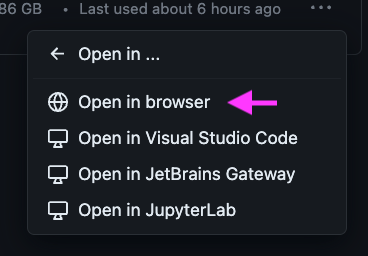
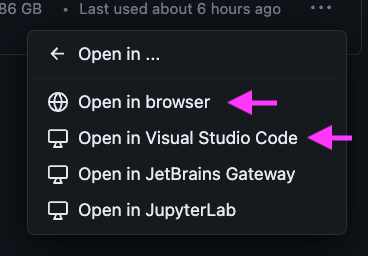
incorporate feedback from user testing

Changed region(s): [[0.837, 0.4688, 0.9565, 0.5938]]

diff --git a/README.md b/README.md
@@ -9,29 +9,14 @@ We will first create a smartPy environment with Codespaces. Codespaces is a Micr
 For most readers, the setup will end here and they can skip to the smartPy tutorial.
 More advanced users may wish to continue through the advanced section of setup guide, which provides instructions for how to create a smartPy container and volume on your local machine.
 
-## Table of Contents
+### Permissions and pop-ups
 
-- [SmartPy Environment Setup Guide](#smartpy-environment-setup-guide)
-  * [Introduction](#introduction)
-  * [Table of Contents](#table-of-contents)
-  * [How to create a codespace](#how-to-create-a-codespace)
-  * [Orientation](#orientation)
-    + [The Command Palette](#the-command-palette)
-    + [Exiting your codespace](#exiting-your-codespace)
-    + [Reconnecting to your codespace](#reconnecting-to-your-codespace)
-    + [The .devcontainer folder](#the-devcontainer-folder)
-    + [How to use Codespaces with your local version of VS Code](#how-to-use-codespaces-with-your-local-version-of-vs-code)
-    + [How to connect to your own fork of the tutorial repository](#how-to-connect-to-your-own-fork-of-the-tutorial-repository)
-    + [Next steps](#next-steps)
-  * [How to set up a local devcontainer (advanced)](#how-to-set-up-a-local-devcontainer--advanced-)
-    + [Prerequisites](#prerequisites)
-    + [Instructions](#instructions)
-    + [Troubleshooting](#troubleshooting)
+Throughout this guide you may encounter pop-ups or detours asking you to grant permission for particular activities such as opening VS Code from the browser, installing extentions and authorising github access. These haven't been detailed in the guide as they differ between operating systems and your security settings. However, these are expected and you will have to provide appropriate access to complete the setup.
 
 ## How to create a codespace
 
 1. Create an account at github.com
-2. Navigate to https://github.com/grum-tez/smartPyDC
+2. Navigate to https://github.com/grum-tez/smartPyDC (this very page)
 3. Click _Use this template_, then click _Open in a codespace_.
 
 ![Partial screengrab of Github website with 'Use this Template' leading to a dropdown with 'Open in codespace'](images/useThisTemplate.png)
@@ -51,60 +36,25 @@ The Command Palette is a searchable menu that provides access to many commands i
 You will use the Command Palette often enough that it is well worth learning the keyboard shortcut!
 
 **Command Palette keyboard shortcuts:**
-Windows/Linux: Ctrl + Shift + P
-macOS: ⇧⌘P (Shift + Command + P)
+
+| Operating System | Shortcut                  |
+|------------------|---------------------------|
+| Windows/Linux    | Ctrl + Shift + P          |
+| macOS            | Shift + Command + P (⇧⌘P) |
+
 
 Try it out - search for "View: Toggle Terminal" in the command palette. Notice that the keyboard shortcut for *Toggle Terminal* appears alongside the command.
 
 ![A screengrab of the Command Palette Search Bar](images/commandPaletteSearch.png)
 
 **Toggle Terminal keyboard shortcuts:**
-Windows/Linux: Ctrl + \`
-macOS: ^\` (control + backtick)
+
+| Operating System | Shortcut                  |
+|------------------|---------------------------|
+| Windows/Linux    | Ctrl + \                  |
+| macOS            | Control + Backtick (^\`)  |
 
 This is another shortcut worth remembering!
-
-### Exiting your codespace
-
-When you are finished working in your codespace, you should close your connection before you exit VS Code. This will prevent wastage of your 60 hour quota of weekly free codespace time.
-
-**To close your connection:**
-
-1. If you are currently connected to a codespace, you will see this in the bottom left corner of your VS Code window:
-
-![A screengrab of the VS Code interface highlighting the 'Codespaces connected' tab](/images/CodespaceConnected.png)
-
-2. Click on the word 'codespaces'. This will open the command palette. Select "close remote connection"
-
-![A screengrab of the VS Code command palette highlighting the 'close remote connection' option](/images/closeRemoteConnection.png)
-
-3. If you now see only this at the bottom left of your VS Code window ... 
-
-![A screengrab of the VS Code interface highlighting that there is no current remote connection](/images/notConnected.png)
-
-... that means you have successfully disconnected from the remote.
-
-With default settings, your codespace will automatically stop after 30 minutes of inactivity. So if you forget to disconnect in the context of this tutorial, it won't be a big deal. However it is good to get into a habit of closing your codespace connection when you aren't using it.
-
-### Reconnecting to your codespace
-
-If you close you codespace part way through the tutorial and you want to get back to your work in progress, go to [https://github.com/codespaces](https://github.com/codespaces). After you sign in with your github account, will see your codespaces listed on this page. If you are new to codespaces, there will only be one item in the list.
-
-**To reconnect:**
-
-1. Click on the meatballs menu[*](https://twitter.com/MichaelBabich/status/608618153757802497) at the right hand side of your corresponding codespace.
-
-![A screengrab of the github codespaces web interface, showing a list of one item with basic information about a provisioned codespace](/images/codespace_list.png)
-
-2. Click 'Open in ...'
-
-![A screengrab of the github codespaces web interface, showing a menu with the option 'Open in ...' highlighted](/images/codespace_list_menu1.png)
-
-3. Click 'Open in browser'
-
-![A screengrab of the github codespaces web interface, showing a menu with the option 'Open in browser' highlighted](/images/codespace_list_menu2.png)
-
-This will return you to your codespace and work in progress.
 
 ### The .devcontainer folder
 
@@ -116,15 +66,67 @@ You will notice your workspace contains a single folder called ".devcontainer".
 
 ### How to use Codespaces with your local version of VS Code
 
-If you are familiar with VS Code and wish to use your natively-installed VS Code instead of an in-browser instance, open the command palette and select "Codespaces: Open in VS Code Desktop". 
+If you are familiar with VS Code and wish to use your natively-installed VS Code instead of an in-browser instance, open the command palette and select "Codespaces: Open in VS Code Desktop".
 
-![A screengrab of the command palette with an arrow indicating the "Open in VS Code Desktop option"](/images/openVS CodeDesktop.png)
+![A screengrab of the command palette with an arrow indicating the "Open in VS Code Desktop option"](/images/openVSCodeDesktop.png)
 
-On the other hand, if you are happy to work in the browser or don't want to install VS Code, you can safely skip this.
+You may be prompted to install the Codespaces extension. If so, accept.
+
+If you are happy to work in the browser or don't want to install VS Code, you can skip this section without disadvantage.
+
+### How to stop your Codespace
+
+When you are finished working in your codespace, you should stop your Codespace before you exit VS Code. This will prevent wastage of your 60 hour quota of weekly free Codespace time.
+
+1. If you are currently connected to a Codespace, you will see this in the bottom left corner of your VS Code window:
+
+![A screengrab of the VS Code interface highlighting the 'Codespaces connected' tab](/images/CodespaceConnected.png)
+
+2. Click on the word 'Codespaces'. This will open the command palette. Select "Stop Current Codespace".
+
+![A screengrab of the VS Code command palette highlighting the 'stop current codespace' option](/images/stopCodespace.png)
+
+3. Confirm you are disconnected
+
+_Codespace in local VS Code_:
+
+ If you now see only this at the bottom left of your VS Code window ... 
+
+![A screengrab of the VS Code interface highlighting that there is no current remote connection](/images/notConnected.png)
+
+... that means you have successfully stopped the remote, and have been disconnected
+
+_Codespace in Browser_:
+
+ You should see something like this:
+
+![A screengrab of a github webpage with the message "Codespace is stopped" and a button: "Restart codespace"](/images/codespaceStopped.png)
+
+With default settings, your codespace will automatically stop after 30 minutes of inactivity. So if you forget to stop in the context of the smartPy tutorial, it won't be a big deal. However, it is good to get into a habit of stopping a codespace when you aren't using it.
+
+### How to reconnect to your Codespace
+
+If you close your Codespace part way through the tutorial and you want to get back to your work in progress, go to [https://github.com/codespaces](https://github.com/codespaces). After you sign in with your github account, will see your codespaces listed on this page. If you are new to codespaces, there will only be one item in the list.
+
+**To reconnect:**
+
+1. Click on the meatballs[*](https://twitter.com/MichaelBabich/status/608618153757802497) menu (the three dots) at the right hand side of your corresponding codespace.
+
+![A screengrab of the github codespaces web interface, showing a list of one item with basic information about a provisioned codespace](/images/codespace_list.png)
+
+2. Click 'Open in ...'
+
+![A screengrab of the github codespaces web interface, showing a menu with the option 'Open in ...' highlighted](/images/codespace_list_menu1.png)
+
+3. Click 'Open in browser' or 'Open in VS Code' as you prefer
+
+![A screengrab of the github codespaces web interface, showing a menu with the option 'Open in browser' highlighted](/images/codespace_list_menu2.png)
+
+This will return you to your codespace and work in progress.
 
 ### How to connect to your own fork of the tutorial repository
 
-If you are familiar with using git and would like to add and commit your changes to a github repository, follow the instructions below. You can complete the Smartypy tutorial without creating your own fork - however be aware that by default your work in the codespace will be automatically deleted after 30 days of inactivity.
+If you are familiar with using git and would like to add and commit your changes to a github repository, follow the instructions below. You can complete the Smartypy tutorial without creating your own fork - however be aware that by default your work in the codespace will be automatically deleted after 30 days of inactivity. This section assumes familiarity with the [basics of git and github](https://www.freecodecamp.org/news/learn-the-basics-of-git-in-under-10-minutes-da548267cc91/).
 
 **To connect to your own fork:**
 
@@ -132,7 +134,9 @@ If you are familiar with using git and would like to add and commit your changes
 
 ![A screengrab of the VS Code interface highlighting the source control view icon](/images/sourceControlView.png)
 
-2. A change was made to the folder as part of the devcontainer setup - the 'smartPy' script was downloaded. To stage this change, click the + symbol on the line next to the word changes (it appears when you mouseover the word *changes*)
+2. An automatic change has already been made to folder as part of the Codespace setup: the 'smartPy' script was downloaded. 
+
+To stage all changes, click the **+** symbol on the line next to the word *changes* (it will appear when you mouseover the word *changes*)
 
 ![A screengrab of the VS Code interface highlighting the 'add all changes' icon in the source control view](/images/addChange.png)
 
@@ -146,7 +150,7 @@ If you are familiar with using git and would like to add and commit your changes
 
 5. In the "Repository Name" dropdown, leave the default repo name as 'smartPyDC', and then select 'Publish to GitHub public repository'.
 
-![A screengrab of the VS Code command palette highlighting the 'Publish to GitHub public repository' option](/images/publishBranch.png)
+![A screengrab of the VS Code command palette highlighting the 'Publish to GitHub public repository' option](/images/publishPublic.png)
 
 ### Next steps
 
@@ -154,7 +158,7 @@ Whether or not you chose to continue in your browser or to set up a github fork,
 
 If you are a relative beginner to development, don't know what a container is, or are simply impatient to get started, we recommend moving directly on to the tutorial by following the link below:
 
-[Take me to the tutorial...]("https://www.lipsum.com/")
+[Take me to the tutorial...](https://www.lipsum.com/)
 
 ## How to set up a local devcontainer (advanced)
 
@@ -173,7 +177,7 @@ This might be a good option for you if:
 ### Prerequisites
 
 - Install [Docker Desktop](https://www.docker.com/products/docker-desktop/). 
-  - If you are on 2021 or later Apple machine, you may have to select the "apple chip" download option. 
+  - If you are on 2021 or later Apple machine, you may have to select the "apple chip" download option.
   - Make sure Docker is installed *and running*. If you restart your machine, you may have to remember to reopen it.
 
 - Install [Visual Studio Code](https://code.visualstudio.com/download). 
@@ -189,23 +193,7 @@ This might be a good option for you if:
 
 1. Open VS Code. If you are connected to a remote (e.g your codespace), close this connection first by following instructions in the [Exiting your codespace](#exiting-your-codespace) section.
 
-For example, if you are currently connected to a codespace, you will see this in the bottom left corner of your VS Code window:
-
-![A screengrab of the VS Code interface highlighting the 'Codespaces connected' tab](/images/CodespaceConnected.png)
-
-To close it, click on the word 'codespaces'. This will open the command palette. Select "close remote connection"
-
-![A screengrab of the VS Code command palette highlighting the 'close remote connection' option](/images/closeRemoteConnection.png)
-
-If you see only this at the bottom left of your VS Code window ... 
-
-![A screengrab of the VS Code interface highlighting that there is no current remote connection](/images/notConnected.png)
-
-... that means you are not connected to a remote and you can continue.
-
-Open the command palette and select "Clone Repository in Container Volume..."
-
-2. Select "Clone a repository from GitHub in a Container Volume..."
+2. Open the command palette and select "Clone Repository in Container Volume..."
 
 3. Select your fork of the smartPyDC repository.
 
@@ -213,9 +201,11 @@ Open the command palette and select "Clone Repository in Container Volume..."
 
 5. A VS Code window will open in a local container volume. 
 
-If this worked successfully, you will see this in the bottom left of your window:
+You will see this in the bottom left of your window:
 
 ![A screengrab of the VS Code interface highlighting a connection to 'Dev Container: SmartPy Tutorial'](/images/DevContainerConnected.png)
+
+The container may take a few minutes to build.
 
 - You now have a local container running with a local volume on your machine.
 - This volume will persist on your hard drive until you manually delete the container using docker.
@@ -223,13 +213,15 @@ If this worked successfully, you will see this in the bottom left of your window
 
 You are now ready to continue with the tutorial in your local container.
 
-Note: The option of a container combined with a local volume provides the best performance. This comes at the cost of an increased use of hard drive space. If you opt to use a container but without a local volume, you may find that commands such as `yarn install` perform poorly.
-
 You're done! You are ready to start the smartPy Tutorial
 
-[Take me to the tutorial...]("https://www.lipsum.com/")
+[Take me to the tutorial...](https://www.lipsum.com/)
 
-### Troubleshooting
+### A note on performance for local devcontainers
+
+The option of a container combined with a local volume provides the best performance. This comes at the cost of an increased use of hard drive space. If you opt to use a container but without a local volume (instructions not given here), you may find that commands such as `npm install` and `yarn install` perform poorly (slowly).
+
+## Troubleshooting
 
 - If you encounter issues where your devcontainer volume in VS Code won't open, try the following solution: reopen Docker Desktop, restart VS Code and try again.
 
@@ -238,5 +230,3 @@ You're done! You are ready to start the smartPy Tutorial
   2. Check that Docker Desktop is open, not just installed.
   3. Install the Docker extension for VS Code. Restart VS Code. Try again.
   4. Give up for now! Continue with the SmartPy tutorial using codespaces.
-
-  - If you closed you codespaces halfway through the tutorial, and you want to get back to it and the work you have already completed, go to [https://github.com/codespaces](https://github.com/codespaces). After you sign in with your github account, will see your codespace listed on this page.
